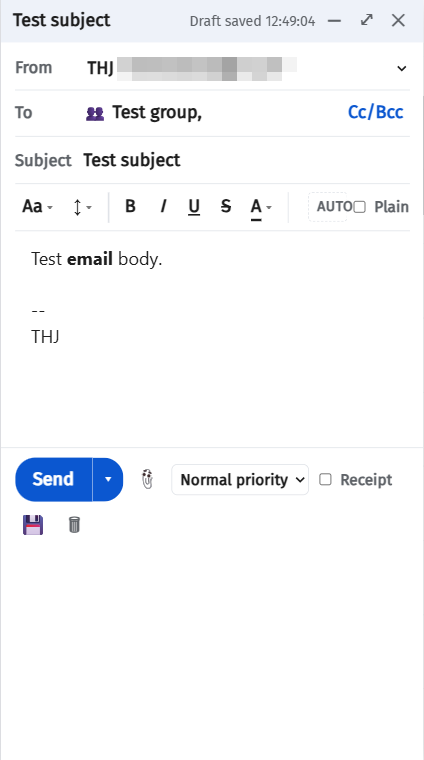
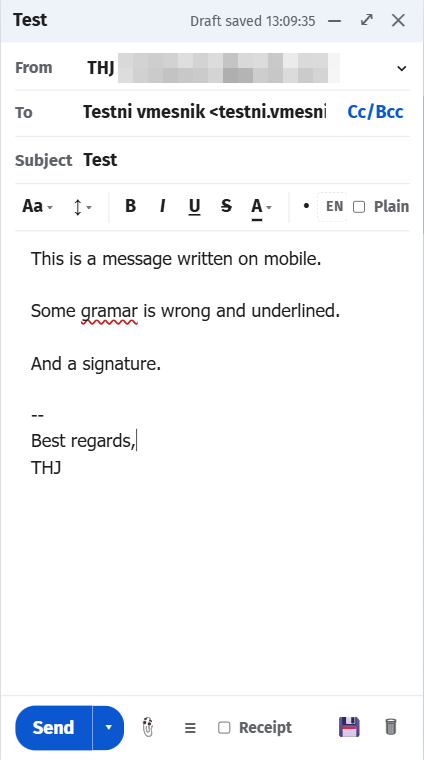
added: priority as a button with a coloured arrow for each of the three levels, fixed: on mobile the composer footer sat in the middle of the screen and the message area did not fill the page

diff --git a/public/js/compose.js b/public/js/compose.js
@@ -94,6 +94,34 @@ const Compose = (() => {
   // ten you actually use is a different tool from one that is not.
   const EMOJI_RECENT_KEY = 'hmelj-emoji-recent';
   const EMOJI_RECENT_MAX = 24;
+  /**
+   * The three priorities, as the button shows them.
+   *
+   * `↑ ≡ ↓` is one family varying only in direction, which reads as a scale at
+   * 20px in a way three different symbols would not. Normal is deliberately
+   * NOT orange in a green/amber/red set: it is the default that almost every
+   * message is sent at, and a default that colours itself is a default that
+   * keeps asking to be looked at. Red and green are for the two that are
+   * actually a choice.
+   */
+  const PRIORITIES = [
+    { value: 'high', glyph: '↑', label: 'High priority' },
+    { value: 'normal', glyph: '≡', label: 'Normal priority' },
+    { value: 'low', glyph: '↓', label: 'Low priority' },
+  ];
+
+  /** Puts one on the button. `value` stays the source of truth — payload()
+   *  reads it exactly as it did when this control was a <select>. */
+  function setPriority(value) {
+    const btn = document.getElementById('c-priority');
+    if (!btn) return;
+    const p = PRIORITIES.find((x) => x.value === value) || PRIORITIES[1];
+    btn.value = p.value;
+    btn.textContent = p.glyph;
+    btn.dataset.priority = p.value;
+    btn.title = I18n.t(p.label);
+  }
+
   // Whether the composer opens enlarged on THIS machine. A dedicated key rather
   // than a device setting: this is window position, the same kind of thing
   // Dialog's own `hmelj.dialogExpanded` and the remembered Settings tab keep —
@@ -524,7 +552,7 @@ const Compose = (() => {
     document.getElementById('c-cc').value = cc;
     document.getElementById('c-bcc').value = '';
     document.getElementById('c-subject').value = subject;
-    document.getElementById('c-priority').value = 'normal';
+    setPriority('normal');
     document.getElementById('c-receipt').checked = !!state.settings.requestReadReceipt;
     document.getElementById('compose-title').textContent = subject || 'New message';
     document.getElementById('draft-status').textContent = '';
@@ -713,7 +741,7 @@ const Compose = (() => {
     // deliberately resets (attachments, replyMeta) — restored after, not before.
     document.getElementById('c-bcc').value = p.bcc || '';
     if (p.cc || p.bcc) document.querySelectorAll('.cc-row').forEach((r) => (r.hidden = false));
-    document.getElementById('c-priority').value = p.priority || 'normal';
+    setPriority(p.priority || 'normal');
     document.getElementById('c-receipt').checked = !!p.readReceipt;
     attachments = (p.attachments || []).map((a) => ({ ...a }));
     restoreInlineImages();
@@ -2509,6 +2537,15 @@ const Compose = (() => {
       // Inline only when dropped INTO the message body; onto the header or the
       // attachment strip means "attach this".
       acceptFiles(files, { inline: editor.contains(e.target) });
+    });
+
+    document.getElementById('c-priority').addEventListener('click', (e) => {
+      const r = e.currentTarget.getBoundingClientRect();
+      const current = e.currentTarget.value;
+      openCtxMenu(PRIORITIES.map((p) => ({
+        label: `${p.glyph}  ${I18n.t(p.label)}${p.value === current ? '  ✓' : ''}`,
+        onClick: () => { setPriority(p.value); dirty = true; },
+      })), r.left, r.bottom + 4);
     });
 
     document.getElementById('btn-send-later').addEventListener('click', (e) => {

diff --git a/public/css/app.css b/public/css/app.css
@@ -1257,10 +1257,14 @@ body.is-offline .icon-btn[disabled] { opacity: .45; }
    right there. These just buy back enough room that a 560px desktop compose
    window doesn't need to. */
 .compose-footer { gap: 6px; }
-.compose-footer #c-priority {
-  font-size: calc(12px * var(--ui-scale)); padding: 5px 4px;
-  min-width: 0; flex: 0 1 auto; /* min-width:0 is what actually lets a select shrink */
-}
+/* Priority. The glyph says which of the three is set and the colour says how
+   loudly: red for high, green for low, and NOTHING for normal — that is the
+   default almost every message goes out at, and a default that colours itself
+   is a default that keeps asking to be looked at. */
+.prio-btn { font-size: calc(16px * var(--ui-scale)); line-height: 1; padding: 5px 8px; flex: 0 0 auto; }
+.prio-btn[data-priority="normal"] { color: var(--text-dim); }
+.prio-btn[data-priority="high"] { color: var(--danger); }
+.prio-btn[data-priority="low"] { color: var(--ok, #0f9d58); }
 /* Shrinkable as a last resort, after the spacer has collapsed and the select has
    given what it can — so a large --ui-scale trims this label rather than pushing
    the row wider than the window. */
@@ -2177,6 +2181,20 @@ label:has(> .set-help) { display: inline-flex; align-items: center; }
   .compose-window.large:not(.minimized) .compose-footer {
     padding-bottom: calc(10px + var(--sab)); /* likewise for the home-indicator strip */
   }
+  /* Full page means full page. The window is height:100% here, but .compose-body
+     was sizing to its own content — so on a short message the writing area
+     stopped a few hundred pixels down and the Send row sat stranded in the
+     MIDDLE of the screen with blank space under it. Reported exactly that way.
+     Giving the body the leftover space and the editor the leftover inside THAT
+     pins the footer to the bottom edge and stretches the message to meet it,
+     which is the same fix for both halves of the complaint.
+     min-height:0 on each: a flex item's default min-height is its content, and
+     without overriding it neither can shrink when the on-screen keyboard opens
+     — the footer would be pushed off the bottom instead. */
+  .compose-window.large:not(.minimized) .compose-body { flex: 1 1 auto; min-height: 0; }
+  .compose-window.large:not(.minimized) .compose-editor,
+  .compose-window.large:not(.minimized) .compose-editor-plain { flex: 1 1 auto; min-height: 120px; }
+  .compose-window.large:not(.minimized) .compose-footer { flex: 0 0 auto; }
 
   /* The formatting toolbar scrolls sideways instead of wrapping. Three rows of
      buttons plus an on-screen keyboard leaves almost no message visible, and on

diff --git a/public/index.html b/public/index.html
@@ -380,11 +380,12 @@
       </span>
       <input type="file" id="c-file" multiple hidden>
       <button class="icon-btn" id="btn-attach" title="Attach files">📎</button>
-      <select id="c-priority" title="Priority">
-        <option value="normal">Normal priority</option>
-        <option value="high">High priority</option>
-        <option value="low">Low priority</option>
-      </select>
+      <!-- A button rather than a <select>: three choices that are worth SEEING at
+           a glance, and a select can only ever show them as words. The glyph and
+           its colour say which one is set (compose.js#setPriority); `value` is
+           still where the answer lives, which is why payload() reads it exactly
+           as it did when this was a select. -->
+      <button id="c-priority" class="icon-btn prio-btn" value="normal" data-priority="normal" title="Priority" data-no-i18n>≡</button>
       <label class="mini-toggle" title="Request read receipt"><input type="checkbox" id="c-receipt"> Receipt</label>
       <span class="spacer"></span>
       <button class="icon-btn" id="btn-draft-save" title="Save draft now">💾</button>

diff --git a/docs/index.html b/docs/index.html
@@ -1795,7 +1795,7 @@ row per message.
 <li>Font, size, text colour and highlight, <strong>B</strong> / <em>I</em> / <u>U</u> / <s>S</s>, bulleted and numbered lists, and links.</li>
 <li><strong>From</strong> chooses the identity — and with it, which account actually sends.</li>
 <li><strong>Cc</strong> and <strong>Bcc</strong>, revealed on demand.</li>
-<li><strong>Priority</strong> and <strong>Request a read receipt</strong>, per message.</li>
+<li><strong>Priority</strong> — one button in the footer, whose arrow and colour say which of the three is set (↑ red, ↓ green, and an unremarkable ≡ for normal) — and <strong>Request a read receipt</strong>, per message.</li>
 <li><strong>Attachments</strong> — pick files or drag them in. Forwarding carries the original's attachments.</li>
 <li>An <strong>emoji picker</strong>, with categories and a <em>Recent</em> row that fills up with the ones you actually use.</li>
 <li>The buttons <strong>light up for the formatting the cursor is inside</strong>, so the bar says what you are standing in rather than only what you can turn on.</li>

diff --git a/public/sw.js b/public/sw.js
@@ -10,7 +10,7 @@
 //    exist. What this branch contributes is the SIGNAL — the X-Hmelj-Offline
 //    503 below is how api.js tells "nothing answered" from "the server said no",
 //    and it is what makes it reach for the offline store.
-const VERSION = 'hmelj-20260906017';
+const VERSION = 'hmelj-20260906018';
 const SHELL = [
   '/',
   '/index.html',

diff --git a/CHANGELOG.md b/CHANGELOG.md
@@ -4,6 +4,22 @@ All notable changes to Hmelj are recorded here. Versions follow
 [semantic versioning](https://semver.org/): the major number changes when an upgrade needs
 manual work, the minor when features are added, the patch for fixes.
 
+## 1.1.2 — 2026-09-06
+
+### Priority is a button now
+Three choices are worth *seeing*, and a dropdown can only show them as words. The footer
+carries one button whose glyph and colour say what is set: **↑ red** for high, **↓ green**
+for low, and a plain dim **≡** for normal — the default nearly every message goes out at,
+and a default that colours itself is one that keeps asking to be looked at. Clicking it
+offers the three.
+
+### On a phone the composer fills the screen
+Full page meant full page for the window but not for its contents: on a short message the
+writing area stopped a few hundred pixels down and the **Send row sat stranded in the
+middle of the screen** with blank space beneath it. The message now stretches to meet the
+footer, and the footer sits on the bottom edge where it belongs — and both can still give
+way when the on-screen keyboard opens.
+
 ## 1.1.1 — 2026-09-06
 
 ### Dark mode: mail you could not read

diff --git a/README.md b/README.md
@@ -117,7 +117,7 @@ over this connection, and installing it as a PWA requires HTTPS.
 - **Templates** — reusable snippets, inserted at the caret, above your signature, written with the composer's own formatting toolbar
 - **Before it goes out** — "you said it was attached, and nothing is", and "you replied to one of nine". Both read English and Slovenian, including forms typed without šumniki, and both read only your own text — never the quoted original
 - **Attachments** by button, by drag-and-drop, or by pasting — a screenshot pasted into the body goes inline, sent as a real embedded part rather than a `data:` URL that most webmail would strip
-- **Draft autosave**, Cc/Bcc, priority, read-receipt request. The composer also remembers whether you keep it enlarged
+- **Draft autosave**, Cc/Bcc, read-receipt request, and a **priority** button whose arrow and colour say which of the three is set. The composer also remembers whether you keep it enlarged, and fills the screen on a phone
 - **Spell checking** as you type — Slovenian and English, detected automatically
 - **Contact autocomplete**, learned from the mail you actually send
 
